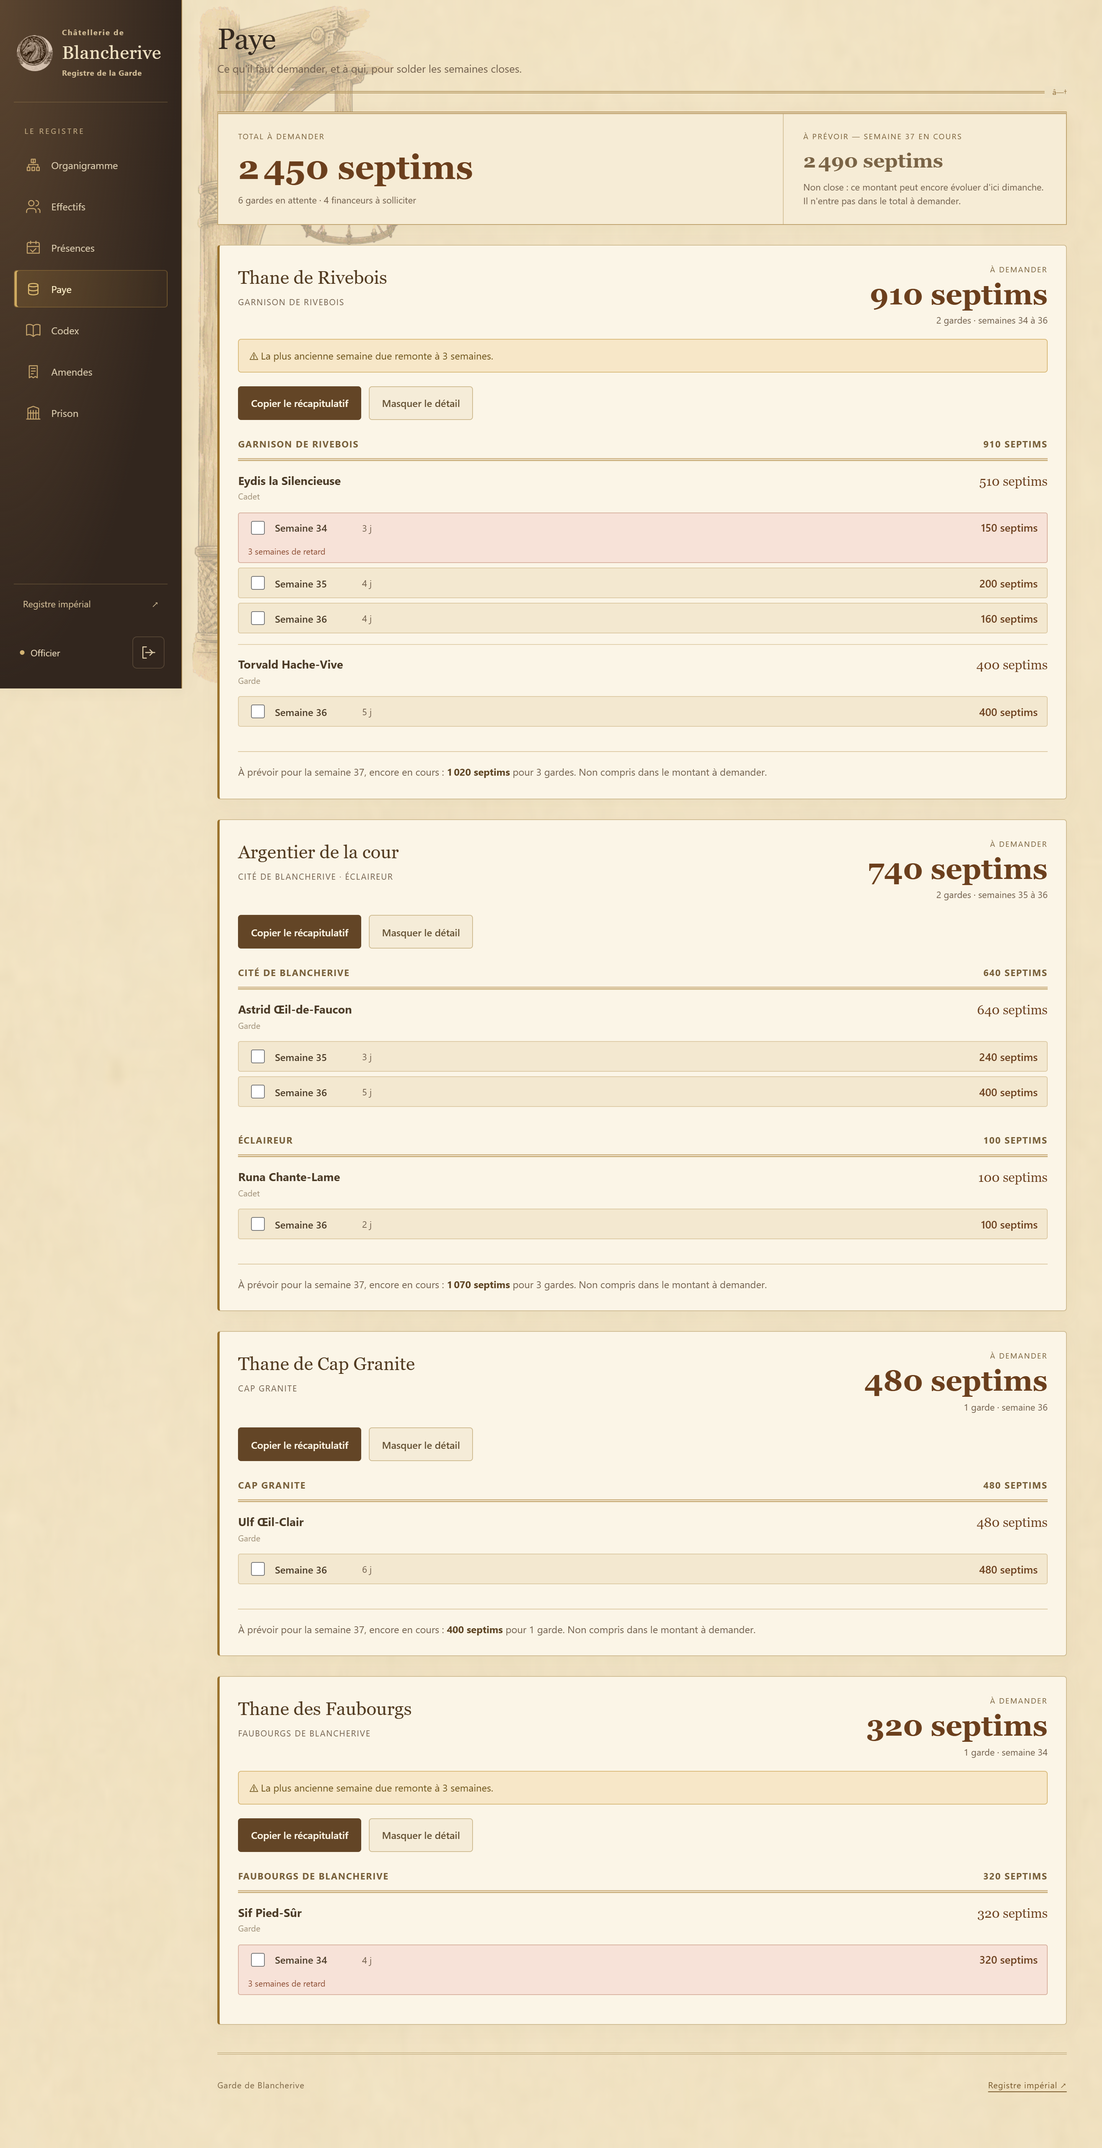
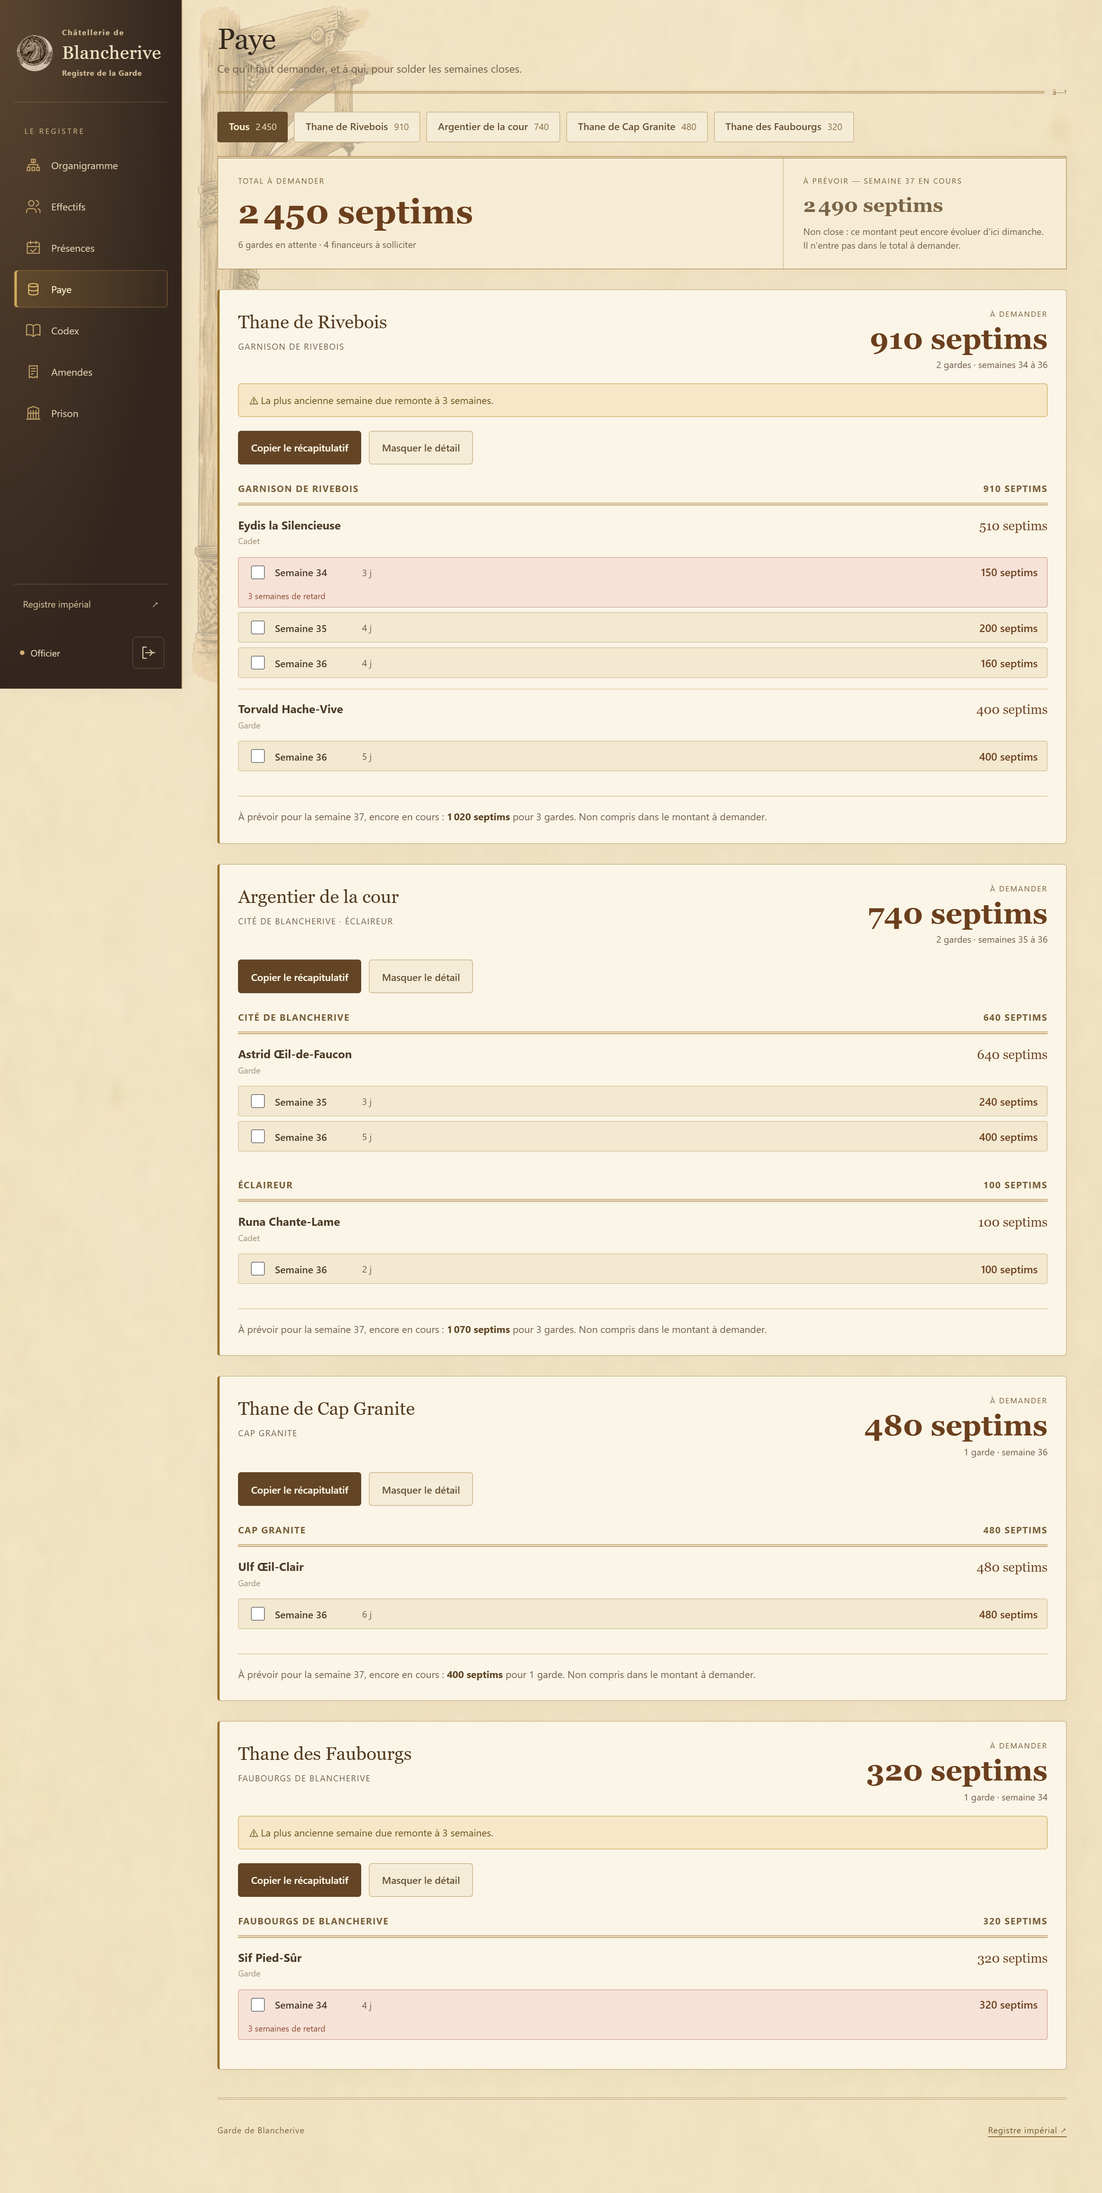
Enhence paye

diff --git a/src/Index.html b/src/Index.html
@@ -2367,6 +2367,42 @@ button {
     padding: 16px;
   }
 }
+.paye-filtres {
+  display: flex;
+  flex-wrap: wrap;
+  gap: 8px;
+  margin-bottom: 18px;
+}
+.paye-filtre {
+  display: inline-flex;
+  align-items: baseline;
+  gap: 8px;
+  min-height: 40px;
+  padding: 8px 14px;
+  border-radius: 3px;
+  font-size: 13px;
+  font-weight: 600;
+  cursor: pointer;
+}
+.paye-filtre-montant {
+  font-size: 12px;
+  font-weight: 400;
+  white-space: nowrap;
+}
+@media (max-width: 600px) {
+  .paye-filtres {
+    flex-wrap: nowrap;
+    overflow-x: auto;
+    padding-bottom: 4px;
+    margin-left: -14px;
+    margin-right: -14px;
+    padding-left: 14px;
+    padding-right: 14px;
+  }
+  .paye-filtre {
+    flex: none;
+  }
+}
 
 /* ui/src/theme.css */
 :root {
@@ -4889,6 +4925,37 @@ body {
 }
 .paye-ajour-liste em {
   color: #7a6446;
+}
+.paye-filtre {
+  background: #f5ecd8;
+  color: #635032;
+  border: 1px solid var(--line);
+}
+.paye-filtre:hover {
+  background: #e8d8b6;
+}
+.paye-filtre.actif {
+  background: #654a2b;
+  color: #fff1d1;
+  border-color: #654a2b;
+}
+.paye-filtre-montant {
+  color: #8a7247;
+}
+.paye-filtre.actif .paye-filtre-montant {
+  color: #e3cfa4;
+}
+.paye-filtre-anomalie {
+  border-color: var(--seal);
+  color: #7a3524;
+}
+.paye-filtre-anomalie.actif {
+  background: var(--seal);
+  border-color: var(--seal);
+  color: #fdeee8;
+}
+.paye-filtres {
+  scrollbar-color: #b69a65 #efe5ce;
 }</style>
 </head>
 <body>
@@ -5503,6 +5570,9 @@ body {
     if (Number.isInteger(n)) return `${n} h`;
     const h = Math.floor(n), m = Math.round((n - h) * 60);
     return `${h} h ${m} min`;
+  }
+  function formatMontantCourt(value) {
+    return new Intl.NumberFormat("fr-FR").format(Number(value) || 0);
   }
   function formatSeptims(value) {
     const n = Number(value) || 0;
@@ -6889,7 +6959,7 @@ ${item.infraction}`)) return;
     }
   }
   function PayePage({ token, canRegler }) {
-    const [data, setData] = useState4(null), [error, setError] = useState4(""), [regles, setRegles] = useState4([]), [busy, setBusy] = useState4(null);
+    const [data, setData] = useState4(null), [error, setError] = useState4(""), [regles, setRegles] = useState4([]), [busy, setBusy] = useState4(null), [filtre, setFiltre] = useState4(null);
     useEffect4(() => {
       serverCall("getPaye", token).then(setData).catch((e) => setError(e.message));
     }, []);
@@ -6910,9 +6980,14 @@ ${item.infraction}`)) return;
       }
     }
     const regle = new Set(regles.map((e) => e.financeur));
-    const dus = data.financeurs.filter((f) => f.total > 0 || regle.has(f.cle));
-    const ajour = data.financeurs.filter((f) => f.total <= 0 && !regle.has(f.cle));
-    return /* @__PURE__ */ React.createElement(React.Fragment, null, /* @__PURE__ */ React.createElement("div", { className: "page-header" }, /* @__PURE__ */ React.createElement("div", null, /* @__PURE__ */ React.createElement("h1", { className: "page-title" }, "Paye"), /* @__PURE__ */ React.createElement("p", { className: "page-subtitle" }, "Ce qu'il faut demander, et \xE0 qui, pour solder les semaines closes."))), !canRegler && /* @__PURE__ */ React.createElement("div", { className: "readonly-notice" }, "\u{1F512} Consultation en lecture seule \u2014 seuls les officiers peuvent marquer une semaine r\xE9gl\xE9e."), error && /* @__PURE__ */ React.createElement("div", { className: "error", role: "alert" }, error), /* @__PURE__ */ React.createElement("section", { className: "paye-resume", "aria-label": "Total \xE0 demander" }, /* @__PURE__ */ React.createElement("div", { className: "paye-resume-principal" }, /* @__PURE__ */ React.createElement("span", { className: "paye-resume-label" }, "Total \xE0 demander"), /* @__PURE__ */ React.createElement("strong", { className: "paye-resume-montant" }, formatSeptims(data.totalADemander)), /* @__PURE__ */ React.createElement("span", { className: "paye-resume-meta" }, data.totalADemander > 0 ? `${data.nbGardesDus} garde${data.nbGardesDus > 1 ? "s" : ""} en attente \xB7 ${dus.length} financeur${dus.length > 1 ? "s" : ""} \xE0 solliciter` : "Toutes les semaines closes sont r\xE9gl\xE9es.")), /* @__PURE__ */ React.createElement("div", { className: "paye-resume-secondaire" }, /* @__PURE__ */ React.createElement("span", { className: "paye-resume-label" }, "\xC0 pr\xE9voir \u2014 semaine ", data.currentWeek, " en cours"), /* @__PURE__ */ React.createElement("strong", { className: "paye-resume-prevision" }, formatSeptims(data.totalAPrevoir)), /* @__PURE__ */ React.createElement("span", { className: "paye-resume-meta" }, "Non close : ce montant peut encore \xE9voluer d'ici dimanche. Il n'entre pas dans le total \xE0 demander."))), dus.map((f) => /* @__PURE__ */ React.createElement(PayeFinanceur, { key: f.cle, f, currentWeek: data.currentWeek, canRegler, busy, regles: regles.filter((e) => e.financeur === f.cle), onBasculer: basculer })), ajour.length > 0 && /* @__PURE__ */ React.createElement("section", { className: "paye-ajour" }, /* @__PURE__ */ React.createElement("h2", { className: "paye-ajour-titre" }, "\xC0 jour \u2014 rien \xE0 demander"), /* @__PURE__ */ React.createElement("ul", { className: "paye-ajour-liste" }, ajour.map((f) => /* @__PURE__ */ React.createElement("li", { key: f.cle }, /* @__PURE__ */ React.createElement("strong", null, f.libelle), /* @__PURE__ */ React.createElement("span", null, f.corps.join(" \xB7 ") || "Aucun corps rattach\xE9"), f.previsionTotal > 0 && /* @__PURE__ */ React.createElement("em", null, formatSeptims(f.previsionTotal), " \xE0 pr\xE9voir pour la semaine ", data.currentWeek))))));
+    const choisi = data.financeurs.find((f) => f.cle === filtre) || null;
+    const visibles = choisi ? [choisi] : data.financeurs;
+    const dus = visibles.filter((f) => f.total > 0 || regle.has(f.cle));
+    const ajour = visibles.filter((f) => f.total <= 0 && !regle.has(f.cle));
+    const aDemander = choisi ? choisi.total : data.totalADemander;
+    const aPrevoir = choisi ? choisi.previsionTotal : data.totalAPrevoir;
+    const gardesDus = choisi ? choisi.nbGardes : data.nbGardesDus;
+    return /* @__PURE__ */ React.createElement(React.Fragment, null, /* @__PURE__ */ React.createElement("div", { className: "page-header" }, /* @__PURE__ */ React.createElement("div", null, /* @__PURE__ */ React.createElement("h1", { className: "page-title" }, "Paye"), /* @__PURE__ */ React.createElement("p", { className: "page-subtitle" }, "Ce qu'il faut demander, et \xE0 qui, pour solder les semaines closes."))), !canRegler && /* @__PURE__ */ React.createElement("div", { className: "readonly-notice" }, "\u{1F512} Consultation en lecture seule \u2014 seuls les officiers peuvent marquer une semaine r\xE9gl\xE9e."), error && /* @__PURE__ */ React.createElement("div", { className: "error", role: "alert" }, error), data.financeurs.length > 1 && /* @__PURE__ */ React.createElement("div", { className: "paye-filtres", role: "group", "aria-label": "Filtrer par financeur" }, /* @__PURE__ */ React.createElement("button", { type: "button", className: `paye-filtre${filtre ? "" : " actif"}`, "aria-pressed": !filtre, onClick: () => setFiltre(null) }, "Tous", /* @__PURE__ */ React.createElement("span", { className: "paye-filtre-montant" }, formatMontantCourt(data.totalADemander))), data.financeurs.map((f) => /* @__PURE__ */ React.createElement("button", { key: f.cle, type: "button", className: `paye-filtre${filtre === f.cle ? " actif" : ""}${f.role === "inconnu" && f.total > 0 ? " paye-filtre-anomalie" : ""}`, "aria-pressed": filtre === f.cle, onClick: () => setFiltre(filtre === f.cle ? null : f.cle) }, f.libelle, /* @__PURE__ */ React.createElement("span", { className: "paye-filtre-montant" }, f.total > 0 ? formatMontantCourt(f.total) : "\xE0 jour")))), /* @__PURE__ */ React.createElement("section", { className: "paye-resume", "aria-label": "Total \xE0 demander" }, /* @__PURE__ */ React.createElement("div", { className: "paye-resume-principal" }, /* @__PURE__ */ React.createElement("span", { className: "paye-resume-label" }, "Total \xE0 demander", choisi && ` \u2014 ${choisi.libelle}`), /* @__PURE__ */ React.createElement("strong", { className: "paye-resume-montant" }, formatSeptims(aDemander)), /* @__PURE__ */ React.createElement("span", { className: "paye-resume-meta" }, aDemander > 0 ? `${gardesDus} garde${gardesDus > 1 ? "s" : ""} en attente${choisi ? "" : ` \xB7 ${dus.length} financeur${dus.length > 1 ? "s" : ""} \xE0 solliciter`}` : choisi ? "Ce financeur est \xE0 jour." : "Toutes les semaines closes sont r\xE9gl\xE9es.")), /* @__PURE__ */ React.createElement("div", { className: "paye-resume-secondaire" }, /* @__PURE__ */ React.createElement("span", { className: "paye-resume-label" }, "\xC0 pr\xE9voir \u2014 semaine ", data.currentWeek, " en cours"), /* @__PURE__ */ React.createElement("strong", { className: "paye-resume-prevision" }, formatSeptims(aPrevoir)), /* @__PURE__ */ React.createElement("span", { className: "paye-resume-meta" }, "Non close : ce montant peut encore \xE9voluer d'ici dimanche. Il n'entre pas dans le total \xE0 demander."))), dus.map((f) => /* @__PURE__ */ React.createElement(PayeFinanceur, { key: f.cle, f, currentWeek: data.currentWeek, canRegler, busy, regles: regles.filter((e) => e.financeur === f.cle), onBasculer: basculer })), ajour.length > 0 && !choisi && /* @__PURE__ */ React.createElement("section", { className: "paye-ajour" }, /* @__PURE__ */ React.createElement("h2", { className: "paye-ajour-titre" }, "\xC0 jour \u2014 rien \xE0 demander"), /* @__PURE__ */ React.createElement("ul", { className: "paye-ajour-liste" }, ajour.map((f) => /* @__PURE__ */ React.createElement("li", { key: f.cle }, /* @__PURE__ */ React.createElement("strong", null, f.libelle), /* @__PURE__ */ React.createElement("span", null, f.corps.join(" \xB7 ") || "Aucun corps rattach\xE9"), f.previsionTotal > 0 && /* @__PURE__ */ React.createElement("em", null, formatSeptims(f.previsionTotal), " \xE0 pr\xE9voir pour la semaine ", data.currentWeek))))));
   }
   function PayeSemaine({ s, canRegler, busy, onRegler }) {
     const Ligne = canRegler ? "label" : "div";

diff --git a/ui/src/app.jsx b/ui/src/app.jsx
@@ -11,6 +11,7 @@ const {useEffect,useMemo,useRef,useState}=React;
 function serverCall(name,...args){return new Promise((resolve,reject)=>{google.script.run.withSuccessHandler(resolve).withFailureHandler(error=>reject(new Error(error?.message||String(error))))[name](...args);});}
 function normalizeSearchText(value){return String(value||"").toLowerCase().normalize("NFD").replace(/[\u0300-\u036f]/g,"");}
 function formatHours(value){const n=Number(value);if(!Number.isFinite(n))return"";if(n<1)return`${Math.round(n*60)} min`;if(Number.isInteger(n))return`${n} h`;const h=Math.floor(n),m=Math.round((n-h)*60);return`${h} h ${m} min`;}
+function formatMontantCourt(value){return new Intl.NumberFormat("fr-FR").format(Number(value)||0);}
 function formatSeptims(value){const n=Number(value)||0;return`${new Intl.NumberFormat("fr-FR").format(n)} septim${Math.abs(n)>1?"s":""}`;}
 function findCodexArticle(articles,label){if(!articles||!label||String(label).startsWith("Motif personnalis"))return null;const exact=articles.find(a=>a.label===label);if(exact)return exact;const m=String(label).match(/Art\.?\s*([0-9IVXLCDM.\-]+)/i);if(!m)return null;return articles.find(a=>String(a.article).toLowerCase()===String(m[1]).toLowerCase()&&a.source==="Codex Judiciaire de Blancherive")||null;}
 
@@ -1853,7 +1854,7 @@ async function payeCopier(texte){
 }
 
 function PayePage({token,canRegler}){
-  const[data,setData]=useState(null),[error,setError]=useState(""),[regles,setRegles]=useState([]),[busy,setBusy]=useState(null);
+  const[data,setData]=useState(null),[error,setError]=useState(""),[regles,setRegles]=useState([]),[busy,setBusy]=useState(null),[filtre,setFiltre]=useState(null);
   useEffect(()=>{serverCall("getPaye",token).then(setData).catch(e=>setError(e.message));},[]);
   if(error&&!data)return<div className="error">Erreur de chargement de la paye : {error}</div>;
   if(!data)return<div className="loading">Chargement de la paye...</div>;
@@ -1876,28 +1877,43 @@ function PayePage({token,canRegler}){
   // tant que la session dure : sans cela le règlement ferait disparaître le
   // bouton d'annulation avec elle, juste après le clic qu'il faut rattraper.
   const regle=new Set(regles.map(e=>e.financeur));
-  const dus=data.financeurs.filter(f=>f.total>0||regle.has(f.cle));
-  const ajour=data.financeurs.filter(f=>f.total<=0&&!regle.has(f.cle));
+  const choisi=data.financeurs.find(f=>f.cle===filtre)||null;
+  const visibles=choisi?[choisi]:data.financeurs;
+  const dus=visibles.filter(f=>f.total>0||regle.has(f.cle));
+  const ajour=visibles.filter(f=>f.total<=0&&!regle.has(f.cle));
+  const aDemander=choisi?choisi.total:data.totalADemander;
+  const aPrevoir=choisi?choisi.previsionTotal:data.totalAPrevoir;
+  const gardesDus=choisi?choisi.nbGardes:data.nbGardesDus;
+
   return <>
     <div className="page-header"><div><h1 className="page-title">Paye</h1><p className="page-subtitle">Ce qu'il faut demander, et à qui, pour solder les semaines closes.</p></div></div>
     {!canRegler&&<div className="readonly-notice">🔒 Consultation en lecture seule — seuls les officiers peuvent marquer une semaine réglée.</div>}
     {error&&<div className="error" role="alert">{error}</div>}
 
+    {data.financeurs.length>1&&<div className="paye-filtres" role="group" aria-label="Filtrer par financeur">
+      <button type="button" className={`paye-filtre${filtre?"":" actif"}`} aria-pressed={!filtre} onClick={()=>setFiltre(null)}>
+        Tous<span className="paye-filtre-montant">{formatMontantCourt(data.totalADemander)}</span>
+      </button>
+      {data.financeurs.map(f=><button key={f.cle} type="button" className={`paye-filtre${filtre===f.cle?" actif":""}${f.role==="inconnu"&&f.total>0?" paye-filtre-anomalie":""}`} aria-pressed={filtre===f.cle} onClick={()=>setFiltre(filtre===f.cle?null:f.cle)}>
+        {f.libelle}<span className="paye-filtre-montant">{f.total>0?formatMontantCourt(f.total):"à jour"}</span>
+      </button>)}
+    </div>}
+
     <section className="paye-resume" aria-label="Total à demander">
       <div className="paye-resume-principal">
-        <span className="paye-resume-label">Total à demander</span>
-        <strong className="paye-resume-montant">{formatSeptims(data.totalADemander)}</strong>
-        <span className="paye-resume-meta">{data.totalADemander>0?`${data.nbGardesDus} garde${data.nbGardesDus>1?"s":""} en attente · ${dus.length} financeur${dus.length>1?"s":""} à solliciter`:"Toutes les semaines closes sont réglées."}</span>
+        <span className="paye-resume-label">Total à demander{choisi&&` — ${choisi.libelle}`}</span>
+        <strong className="paye-resume-montant">{formatSeptims(aDemander)}</strong>
+        <span className="paye-resume-meta">{aDemander>0?`${gardesDus} garde${gardesDus>1?"s":""} en attente${choisi?"":` · ${dus.length} financeur${dus.length>1?"s":""} à solliciter`}`:choisi?"Ce financeur est à jour.":"Toutes les semaines closes sont réglées."}</span>
       </div>
       <div className="paye-resume-secondaire">
         <span className="paye-resume-label">À prévoir — semaine {data.currentWeek} en cours</span>
-        <strong className="paye-resume-prevision">{formatSeptims(data.totalAPrevoir)}</strong>
+        <strong className="paye-resume-prevision">{formatSeptims(aPrevoir)}</strong>
         <span className="paye-resume-meta">Non close : ce montant peut encore évoluer d'ici dimanche. Il n'entre pas dans le total à demander.</span>
       </div>
     </section>
 
     {dus.map(f=><PayeFinanceur key={f.cle} f={f} currentWeek={data.currentWeek} canRegler={canRegler} busy={busy} regles={regles.filter(e=>e.financeur===f.cle)} onBasculer={basculer}/>)}
-    {ajour.length>0&&<section className="paye-ajour">
+    {ajour.length>0&&!choisi&&<section className="paye-ajour">
       <h2 className="paye-ajour-titre">À jour — rien à demander</h2>
       <ul className="paye-ajour-liste">{ajour.map(f=><li key={f.cle}><strong>{f.libelle}</strong><span>{f.corps.join(" · ")||"Aucun corps rattaché"}</span>{f.previsionTotal>0&&<em>{formatSeptims(f.previsionTotal)} à prévoir pour la semaine {data.currentWeek}</em>}</li>)}</ul>
     </section>}

diff --git a/ui/src/styles.css b/ui/src/styles.css
@@ -665,3 +665,13 @@
     .paye-ajour-liste span,.paye-ajour-liste em{font-size:12px;font-style:normal}
     @media(max-width:900px){.paye-resume{grid-template-columns:1fr}}
     @media(max-width:600px){.paye-card{padding:18px 16px}.paye-card-header{flex-direction:column;gap:12px}.paye-card-montant{min-width:0;text-align:left}.paye-resume>div{padding:18px 16px}.paye-resume-montant{font-size:34px}.paye-montant{font-size:30px}.paye-garde{grid-template-columns:minmax(0,1fr)}.paye-garde-total{text-align:left}.paye-semaine-numero,.paye-semaine-jours{min-width:0}.paye-ajour{padding:16px}}
+
+    /* Filtre par financeur. Chaque tag porte son montant : le filtre sert
+       aussi de sommaire, lisible sans ouvrir de menu. */
+    .paye-filtres{display:flex;flex-wrap:wrap;gap:8px;margin-bottom:18px}
+    .paye-filtre{display:inline-flex;align-items:baseline;gap:8px;min-height:40px;padding:8px 14px;border-radius:3px;font-size:13px;font-weight:600;cursor:pointer}
+    .paye-filtre-montant{font-size:12px;font-weight:400;white-space:nowrap}
+    @media(max-width:600px){
+      .paye-filtres{flex-wrap:nowrap;overflow-x:auto;padding-bottom:4px;margin-left:-14px;margin-right:-14px;padding-left:14px;padding-right:14px}
+      .paye-filtre{flex:none}
+    }

diff --git a/ui/src/theme.css b/ui/src/theme.css
@@ -111,3 +111,11 @@ body{background-image:linear-gradient(#f4e9cfb8,#f4e9cfb8),url('../assets/papier
 .paye-prevision strong{color:#5d4423}
 .paye-ajour{background:#f3ecdb;border:1px solid var(--line)}
 .paye-ajour-liste em{color:#7a6446}
+.paye-filtre{background:#f5ecd8;color:#635032;border:1px solid var(--line)}
+.paye-filtre:hover{background:#e8d8b6}
+.paye-filtre.actif{background:#654a2b;color:#fff1d1;border-color:#654a2b}
+.paye-filtre-montant{color:#8a7247}
+.paye-filtre.actif .paye-filtre-montant{color:#e3cfa4}
+.paye-filtre-anomalie{border-color:var(--seal);color:#7a3524}
+.paye-filtre-anomalie.actif{background:var(--seal);border-color:var(--seal);color:#fdeee8}
+.paye-filtres{scrollbar-color:#b69a65 #efe5ce}

diff --git a/docs/BUSINESS_RULES.md b/docs/BUSINESS_RULES.md
@@ -114,6 +114,10 @@ puis par corps ; l'argent, lui, vient d'un financeur par corps.
   en bloc. La ligne réglée quitte la liste des impayés ; elle reste visible dans
   « Réglé à l'instant » le temps de la session, avec une annulation, afin qu'une
   erreur de ligne se rattrape sans passer par la feuille.
+- Un filtre par financeur, présenté en tags portant chacun son montant, sert
+  aussi de sommaire. Isoler un financeur recalcule le total en tête et le nomme :
+  annoncer le total de toute la garde à un seul Thane serait l'erreur exacte que
+  cette page doit empêcher.
 - Un récapitulatif en texte brut reprend l'ordre de l'écran, montant d'abord et
   justification ensuite, pour être lu ou remis au financeur.
 - GARDE n'a pas accès à cette page. INTENDANT la consulte sans pouvoir cocher.

diff --git a/docs/apercus/README.md b/docs/apercus/README.md
@@ -45,6 +45,8 @@ Générées par le script, donc rejouables à l’identique :
   accordéons de semaines, coût total par corps.
 - `paye-1440.png`, `paye-390.png` : demande de budget par financeur, détail par
   corps puis par garde, cases de règlement.
+- `paye-filtre-1440.png` : un seul financeur retenu — le total en tête suit le
+  filtre et porte son nom.
 - `paye-intendant-1440.png` : la même page vue par un INTENDANT — navigation
   réduite à deux entrées, aucune case à cocher.
 
